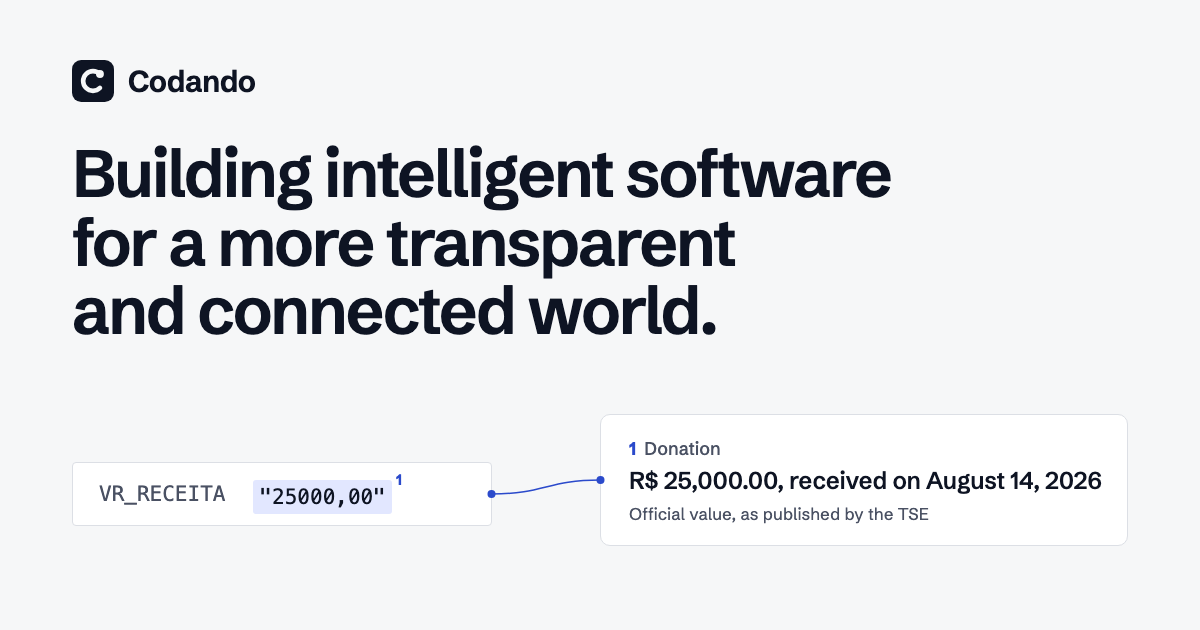
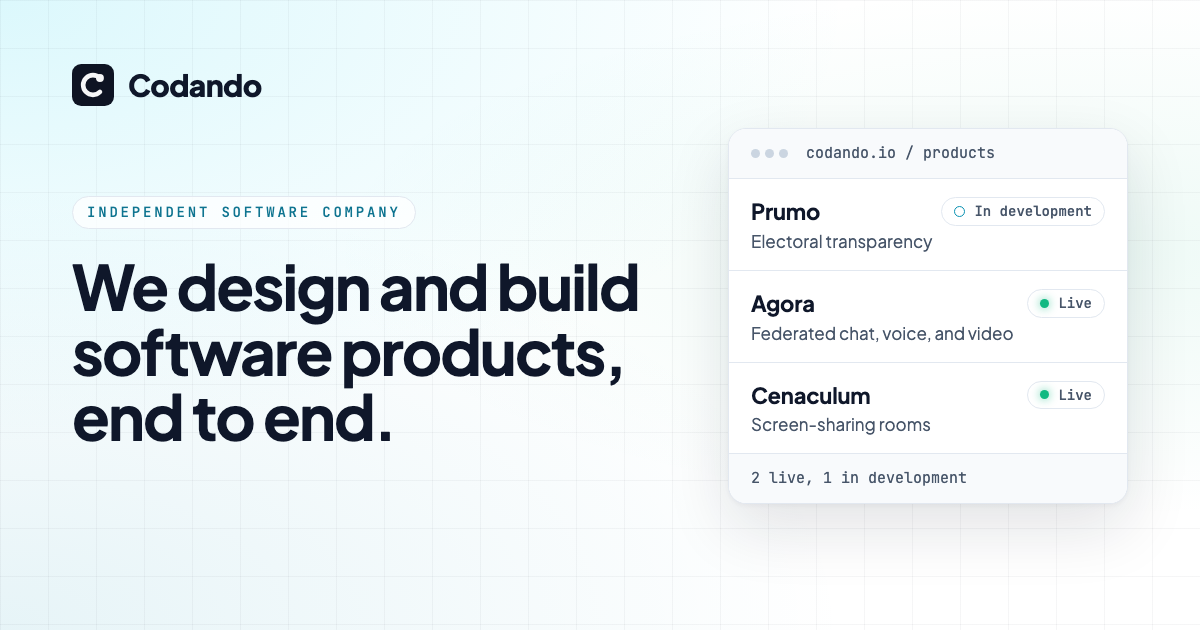
feat: describe the redesign in the head and the Open Graph image
Title, description, Open Graph, Twitter, and JSON-LD now say what the page
says: an independent software company with Agora and Cenaculum live and
Prumo in development. The Open Graph image shows the logo, the headline,
and the product status board in the new identity; theme colors follow the
new page backgrounds. The icons re-rendered byte for byte.

diff --git a/design/og-image.html b/design/og-image.html
@@ -10,9 +10,16 @@
         font-weight: 200 800;
       }
 
+      @font-face {
+        font-family: 'JetBrains Mono';
+        src: url('../public/fonts/jetbrains-mono-latin-wght-normal.woff2') format('woff2');
+        font-weight: 100 800;
+      }
+
       * {
         box-sizing: border-box;
         margin: 0;
+        padding: 0;
       }
 
       body {
@@ -20,20 +27,33 @@
         width: 1200px;
         height: 630px;
         overflow: hidden;
-        background: #f6f7f8;
-        color: #0e1423;
+        background:
+          radial-gradient(at 0% 0%, rgb(34 211 238 / 0.16) 0, transparent 50%),
+          radial-gradient(at 0% 100%, rgb(8 145 178 / 0.1) 0, transparent 50%),
+          radial-gradient(at 92% 40%, rgb(16 185 129 / 0.07) 0, transparent 50%), #ffffff;
+        color: #0f172a;
         font-family: 'Plus Jakarta Sans', sans-serif;
+      }
+
+      body::before {
+        content: '';
+        position: absolute;
+        inset: 0;
+        background-image:
+          linear-gradient(to right, rgb(15 23 42 / 0.04) 1px, transparent 0),
+          linear-gradient(to bottom, rgb(15 23 42 / 0.04) 1px, transparent 0);
+        background-size: 48px 48px;
       }
 
       .brand {
         position: absolute;
-        top: 60px;
+        top: 64px;
         left: 72px;
         display: flex;
         align-items: center;
         gap: 14px;
         font-size: 30px;
-        font-weight: 650;
+        font-weight: 800;
         letter-spacing: -0.02em;
       }
 
@@ -42,101 +62,130 @@
         height: 42px;
       }
 
-      h1 {
+      .kicker {
         position: absolute;
-        top: 140px;
+        top: 196px;
         left: 72px;
-        width: 1000px;
-        font-size: 66px;
-        font-weight: 620;
-        letter-spacing: -0.035em;
-        line-height: 1.04;
-        text-wrap: balance;
+        padding: 7px 14px;
+        border: 1px solid #e2e8f0;
+        border-radius: 999px;
+        background: rgb(255 255 255 / 0.72);
+        color: #0e7490;
+        font:
+          500 14px/1.2 'JetBrains Mono',
+          monospace;
+        letter-spacing: 0.2em;
+        text-transform: uppercase;
       }
 
-      .row {
+      h1 {
         position: absolute;
-        top: 462px;
+        top: 254px;
         left: 72px;
+        width: 620px;
+        font-size: 62px;
+        font-weight: 700;
+        letter-spacing: -0.03em;
+        line-height: 1.05;
+      }
+
+      .board {
+        position: absolute;
+        top: 128px;
+        right: 72px;
+        width: 400px;
+        overflow: hidden;
+        border: 1px solid #e2e8f0;
+        border-radius: 18px;
+        background: #ffffff;
+        box-shadow:
+          0 2px 4px rgb(15 23 42 / 0.04),
+          0 24px 64px rgb(15 23 42 / 0.12);
+      }
+
+      .board-header,
+      .board-summary {
         display: flex;
         align-items: center;
-        gap: 28px;
-        width: 420px;
-        height: 64px;
-        padding-inline: 26px;
-        border: 1px solid #dcdfe5;
-        border-radius: 4px;
-        background: #fff;
+        gap: 16px;
+        padding: 14px 22px;
+        background: #f8fafc;
+        color: #475569;
         font:
-          21px/1 ui-monospace,
-          'SF Mono',
-          Menlo,
-          Consolas,
+          400 15px/1.4 'JetBrains Mono',
           monospace;
       }
 
-      .key {
-        color: #4a5163;
+      .board-header {
+        border-bottom: 1px solid #e2e8f0;
       }
 
-      mark {
-        padding: 5px 6px;
-        border-radius: 3px;
-        background: #e2e7ff;
-        color: inherit;
+      .board-summary {
+        border-top: 1px solid #e2e8f0;
       }
 
-      sup {
-        position: relative;
-        top: -11px;
-        margin-left: 4px;
-        color: #2b4acb;
-        font:
-          700 15px 'Plus Jakarta Sans',
-          sans-serif;
+      .dots {
+        width: 9px;
+        height: 9px;
+        margin-right: 30px;
+        border-radius: 50%;
+        background: #cbd5e1;
+        box-shadow:
+          14px 0 #cbd5e1,
+          28px 0 #cbd5e1;
       }
 
-      .record {
-        position: absolute;
-        top: 414px;
-        left: 600px;
-        width: 528px;
-        height: 132px;
-        padding: 22px 28px;
-        border: 1px solid #dcdfe5;
-        border-radius: 10px;
-        background: #fff;
+      .row {
+        display: grid;
+        grid-template-columns: 1fr auto;
+        align-items: center;
+        row-gap: 4px;
+        padding: 18px 22px;
       }
 
-      .type {
-        color: #4a5163;
-        font-size: 18px;
-        font-weight: 500;
+      .row + .row {
+        border-top: 1px solid #e2e8f0;
       }
 
-      .type b {
-        margin-right: 8px;
-        color: #2b4acb;
+      .name {
+        font-size: 22px;
         font-weight: 700;
-      }
-
-      .value {
-        margin-top: 6px;
-        font-size: 24px;
-        white-space: nowrap;
-        font-weight: 560;
         letter-spacing: -0.01em;
       }
 
-      .ref {
-        margin-top: 8px;
-        color: #4a5163;
+      .category {
+        grid-column: 1 / -1;
+        color: #475569;
         font-size: 17px;
       }
 
-      .leader {
-        position: absolute;
-        inset: 0;
+      .chip {
+        display: inline-flex;
+        align-items: center;
+        gap: 9px;
+        padding: 5px 12px;
+        border: 1px solid #e2e8f0;
+        border-radius: 999px;
+        color: #475569;
+        font:
+          500 14px/1.2 'JetBrains Mono',
+          monospace;
+      }
+
+      .chip::before {
+        content: '';
+        width: 9px;
+        height: 9px;
+        border-radius: 50%;
+      }
+
+      .live::before {
+        background: #10b981;
+        box-shadow: 0 0 8px 1px rgb(16 185 129 / 0.45);
+      }
+
+      .dev::before {
+        border: 1.5px solid #0891b2;
       }
     </style>
   </head>
@@ -155,25 +204,23 @@
       </svg>
       Codando
     </div>
-    <h1>Building intelligent software for a more transparent and connected world.</h1>
-    <div class="row">
-      <span class="key">VR_RECEITA</span>
-      <span><mark>"25000,00"</mark><sup>1</sup></span>
+    <p class="kicker">Independent software company</p>
+    <h1>We design and build software products, end to end.</h1>
+    <div class="board">
+      <p class="board-header"><span class="dots"></span>codando.io / products</p>
+      <div class="row">
+        <span class="name">Prumo</span><span class="chip dev">In development</span
+        ><span class="category">Electoral transparency</span>
+      </div>
+      <div class="row">
+        <span class="name">Agora</span><span class="chip live">Live</span
+        ><span class="category">Federated chat, voice, and video</span>
+      </div>
+      <div class="row">
+        <span class="name">Cenaculum</span><span class="chip live">Live</span
+        ><span class="category">Screen-sharing rooms</span>
+      </div>
+      <p class="board-summary">2 live, 1 in development</p>
     </div>
-    <div class="record">
-      <p class="type"><b>1</b>Donation</p>
-      <p class="value">R$&nbsp;25,000.00, received on August 14, 2026</p>
-      <p class="ref">Official value, as published by the TSE</p>
-    </div>
-    <svg class="leader" viewBox="0 0 1200 630" aria-hidden="true">
-      <path
-        d="M491.5 494C546 494 546 480 600.5 480"
-        fill="none"
-        stroke="#2B4ACB"
-        stroke-width="1.5"
-      />
-      <circle cx="491.5" cy="494" r="4" fill="#2B4ACB" />
-      <circle cx="600.5" cy="480" r="4" fill="#2B4ACB" />
-    </svg>
   </body>
 </html>

diff --git a/src/index.html b/src/index.html
@@ -3,20 +3,20 @@
   <head>
     <meta charset="utf-8" />
     <meta name="viewport" content="width=device-width, initial-scale=1" />
-    <title>Codando — Intelligent Software Products</title>
+    <title>Codando — Software products, built end to end</title>
     <meta
       name="description"
-      content="Codando builds intelligent software products that turn complex data into useful, accessible experiences."
+      content="Codando is an independent software company. Agora and Cenaculum are live, and we are building Prumo, an electoral transparency platform for Brazil."
     />
     <link rel="canonical" href="https://codando.io/" />
-    <meta name="theme-color" content="#F6F7F8" media="(prefers-color-scheme: light)" />
-    <meta name="theme-color" content="#0B1020" media="(prefers-color-scheme: dark)" />
+    <meta name="theme-color" content="#FFFFFF" media="(prefers-color-scheme: light)" />
+    <meta name="theme-color" content="#0A0F1C" media="(prefers-color-scheme: dark)" />
     <meta property="og:type" content="website" />
     <meta property="og:site_name" content="Codando" />
-    <meta property="og:title" content="Codando — Intelligent Software Products" />
+    <meta property="og:title" content="Codando — Software products, built end to end" />
     <meta
       property="og:description"
-      content="Codando builds intelligent software products that turn complex data into useful, accessible experiences."
+      content="Codando is an independent software company. Agora and Cenaculum are live, and we are building Prumo, an electoral transparency platform for Brazil."
     />
     <meta property="og:url" content="https://codando.io/" />
     <meta property="og:image" content="https://codando.io/og-image.png" />
@@ -24,14 +24,14 @@
     <meta property="og:image:height" content="630" />
     <meta
       property="og:image:alt"
-      content="The Codando logo and the headline “Building intelligent software for a more transparent and connected world.” Below it, the value of a donation in a TSE open-data record is linked by a line to the Donation record built from it."
+      content="The Codando logo and the headline “We design and build software products, end to end.” Beside it, a status board lists Prumo, electoral transparency, in development; Agora, federated chat, voice, and video, live; and Cenaculum, screen-sharing rooms, live."
     />
     <meta property="og:locale" content="en_US" />
     <meta name="twitter:card" content="summary_large_image" />
-    <meta name="twitter:title" content="Codando — Intelligent Software Products" />
+    <meta name="twitter:title" content="Codando — Software products, built end to end" />
     <meta
       name="twitter:description"
-      content="Codando builds intelligent software products that turn complex data into useful, accessible experiences."
+      content="Codando is an independent software company. Agora and Cenaculum are live, and we are building Prumo, an electoral transparency platform for Brazil."
     />
     <meta name="twitter:image" content="https://codando.io/og-image.png" />
     <link rel="icon" href="/favicon.ico" sizes="32x32" />
@@ -54,7 +54,7 @@
             "name": "Codando",
             "url": "https://codando.io/",
             "logo": "https://codando.io/icon-512.png",
-            "description": "Codando builds intelligent software products that turn complex data into useful, accessible experiences.",
+            "description": "Codando is an independent software company. Agora and Cenaculum are live, and we are building Prumo, an electoral transparency platform for Brazil.",
             "email": "contact@codando.io",
             "taxID": "65.805.437/0001-48",
             "founder": {
